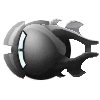
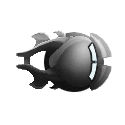
Beta 1.1
Fixed the enemy shields picture resizing the enemy ship, added to the
HTML, and sci-fi-ed the attack names

diff --git a/game.js b/game.js
@@ -817,15 +817,15 @@ window.onload = function () {
         context.font = '15pt Century';
         context.fillStyle = 'yellow';
         var left = explosionTimer == -1 ? 0 : Math.max(Math.ceil(10 + 2 * difficulty - ((new Date()).getTime() - explosionTimer) / 1000), 0);
-        context.fillText('Explosion Available in ' + left.toString() + ' seconds', 200, 40);
+        context.fillText('AutoHack Available in ' + left.toString() + ' seconds', 200, 40);
         left = objectSet[moveSet[0]].shieldTimer == -1 ? 0 : Math.max(Math.ceil(6 + difficulty - ((new Date()).getTime() - objectSet[moveSet[0]].shieldTimer) / 1000), 0);
-        context.fillText('Shield Available in ' + left.toString() + ' seconds', 200, 70);
+        context.fillText('Shields Available in ' + left.toString() + ' seconds', 200, 70);
         context.fillText(lifeLeft.toString() + ' Lives Remained', 200, 100);
         context.fillStyle = 'red';
         var displayY = 40;
 
         if (skillChosen[0] == 1) {
-            context.fillText('Slow Down', 1100, displayY);
+            context.fillText('EMP field', 1100, displayY);
             displayY += 30;
         }
         if (skillChosen[1] == 1) {
@@ -833,19 +833,19 @@ window.onload = function () {
             displayY += 30;
         }
         if (skillChosen[2] == 1) {
-            context.fillText('Strong Health', 1100, displayY);
+            context.fillText('Strong Hull', 1100, displayY);
             displayY += 30;
         }
         if (skillChosen[3] == 1) {
-            context.fillText('Shield', 1100, displayY);
+            context.fillText('Shields', 1100, displayY);
             displayY += 30;
         }
         if (skillChosen[4] == 1) {
-            context.fillText('Meteor', 1100, displayY);
+            context.fillText('Blink Torpedos', 1100, displayY);
             displayY += 30;
         }
         if (skillChosen[5] == 1) {
-            context.fillText('Reflect Damage', 1100, displayY);
+            context.fillText('Reflective Plating', 1100, displayY);
             displayY += 30;
         }
 
@@ -1253,7 +1253,7 @@ window.onload = function () {
         context.font = '20pt Arial';
         context.fillText('WASD keys control movement', canvas.width / 2, 3 * canvas.height / 8);
         context.fillText('Left mouseclick to fire weapons', canvas.width / 2, canvas.height / 2);
-        context.fillText('Spacebar to deploy your shields which will recharge overtime', canvas.width / 2, 5 * canvas.height / 8);
+        context.fillText('Spacebar to deploy your shields, which will recharge over time', canvas.width / 2, 5 * canvas.height / 8);
         context.fillText('Q hacks enemy droids and causes them to self-destruct', canvas.width / 2, 3 * canvas.height / 4);
         context.font = '12pt Arial';
         context.fillText('*Warning* Enemy will likely develop increased security protocols', canvas.width / 2, 3 * canvas.height / 4 + 30);

diff --git a/project.html b/project.html
@@ -6,7 +6,9 @@
     <h2 style="font-family:arial;color:black;font-size:25px;">Zhouyuan Li, Joseph Francke</h2> 
         <div>
         	<canvas id="myCanvas" width="1250" height="550" style="border-color:#999; border-style:solid;"></canvas>
-            <script type="text/javascript" src="game.js"></script>  
+            <script type="text/javascript" src="game.js"></script>
+            <p style="font-family:arial;color:black;font-size:20px;text-indent: 5em;">A faceless demon travels from world to world, leaving nothing but cinders in his wake.  As he draws near what may be the last colony left, all that remains of a once mighty armada prepares to make a final stand.
+            </p>  
         </div>
   </body>
 </html>
